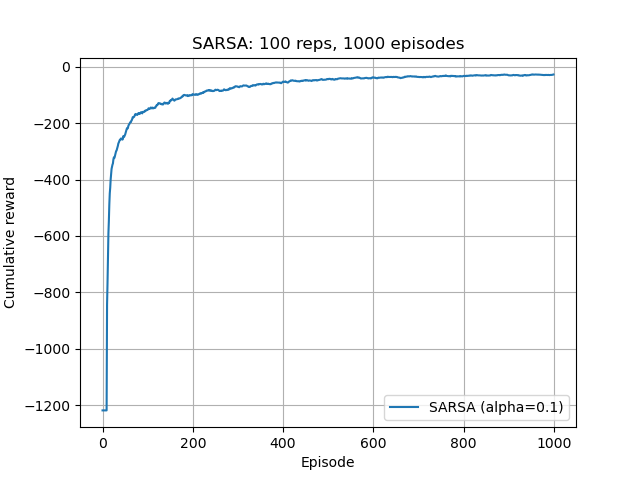
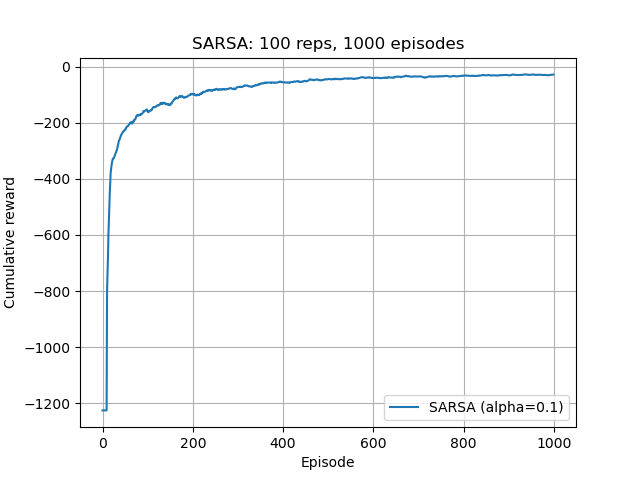
Updated Graphs

diff --git a/IRL_A2/ShortCutAgents.py b/IRL_A2/ShortCutAgents.py
@@ -161,11 +161,10 @@ class ExpectedSARSAAgent(object):
             # Compute expected value
             expected_next_reward = 0.0
             for a_prime in range(self.n_actions):
-                reward = q_next[a_prime]
                 if a_prime == best_a:
-                    expected_next_reward += prob_best * reward
+                    expected_next_reward += prob_best * q_next[a_prime]
                 else:
-                    expected_next_reward += prob_other * reward
+                    expected_next_reward += prob_other * q_next[a_prime]
             target = reward + self.gamma * expected_next_reward
         td_error = target - self.Q[state, action]
         self.Q[state, action] += self.alpha * td_error
@@ -177,21 +176,24 @@ class ExpectedSARSAAgent(object):
         for _ in range(n_episodes):
             env.reset()
             s = env.state()
+            done = env.done()
             ep_return = 0
+            a = self.select_action(s)
 
-            while not env.done():
-                a = self.select_action(s)
+            while not done:
                 r = env.step(a)
                 sp = env.state()
+                done = env.done()
 
-                #Update
-                self.update(s, a, r, sp, env.done())
+                # SARSA update
+                self.update(s, a, r, sp, done)
 
-                s=sp
+                s = sp
+                # Choose next action (on-policy) for next cycle
+                a = self.select_action(s)
                 ep_return += r
-            episode_returns.append(ep_return)
 
-            print("Completed episode: ", _)
+            episode_returns.append(ep_return)
         return episode_returns
 
 
